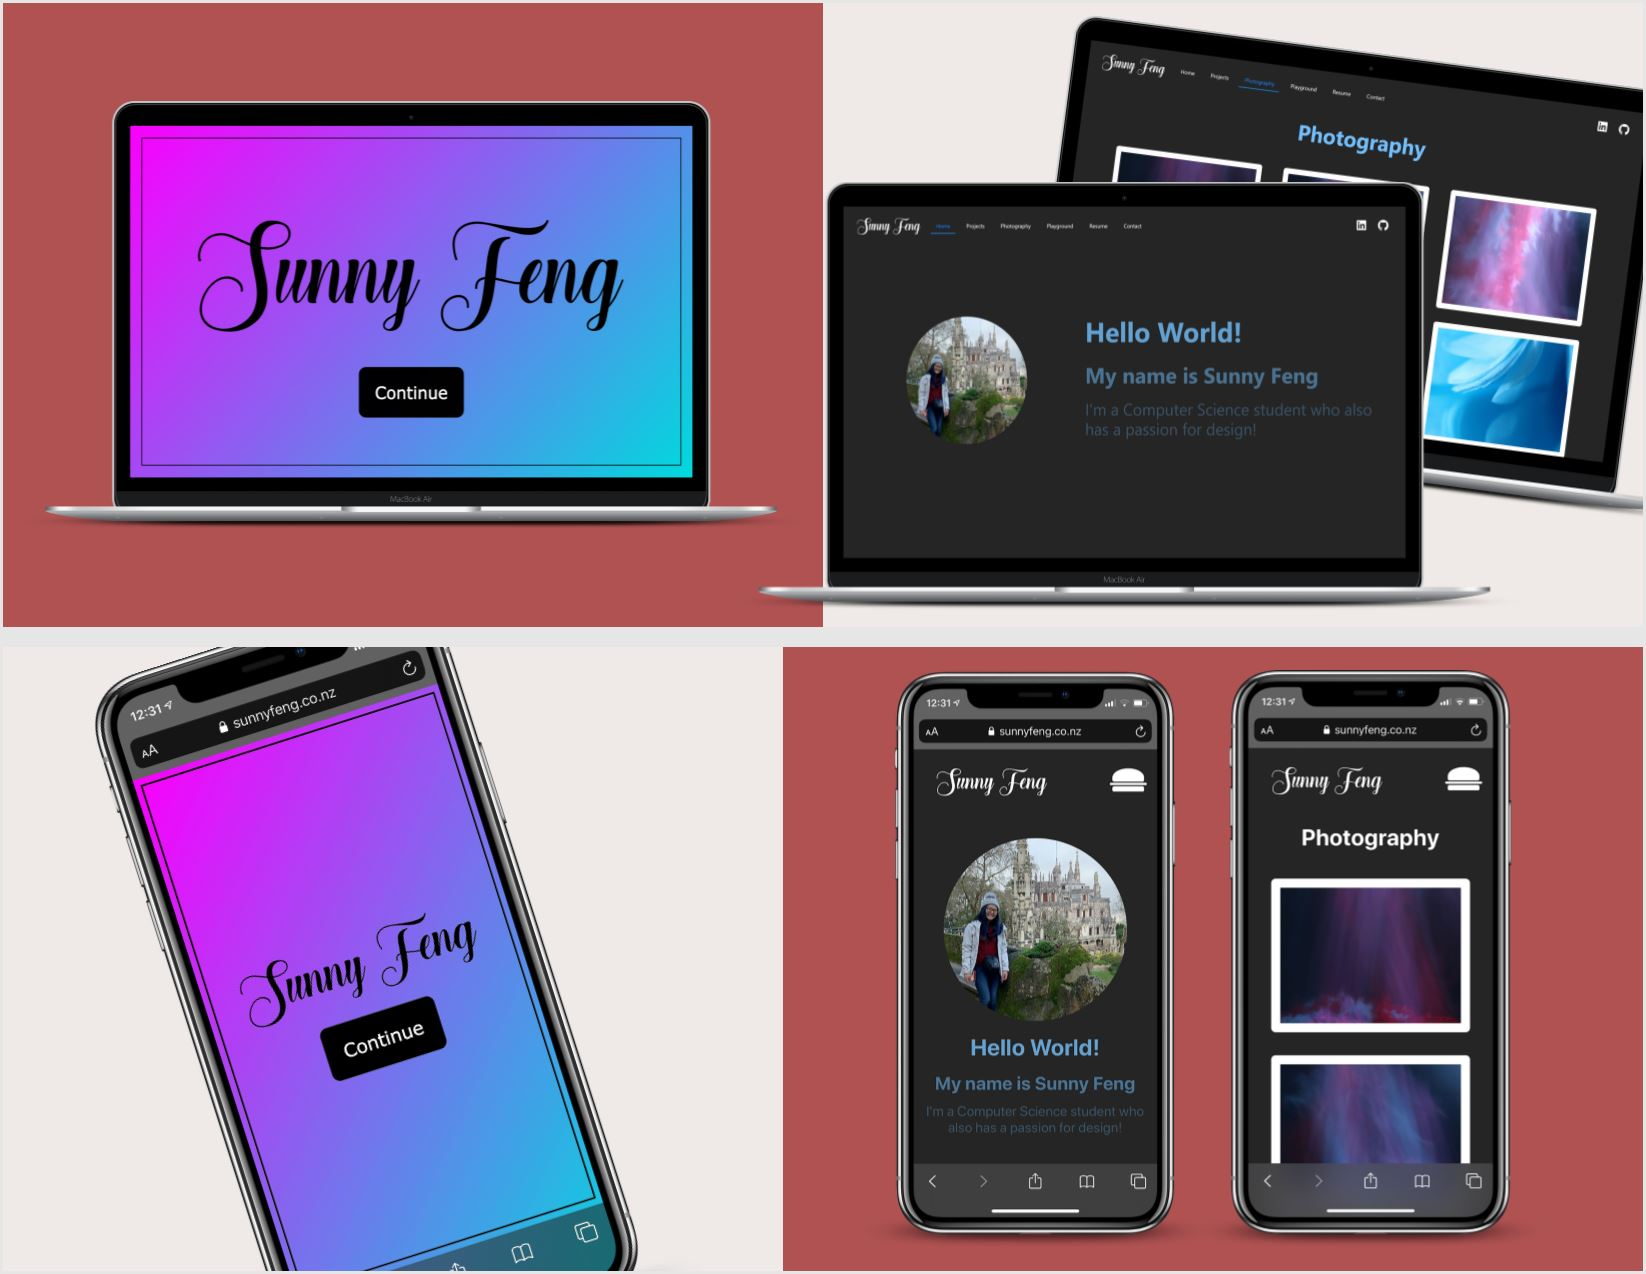
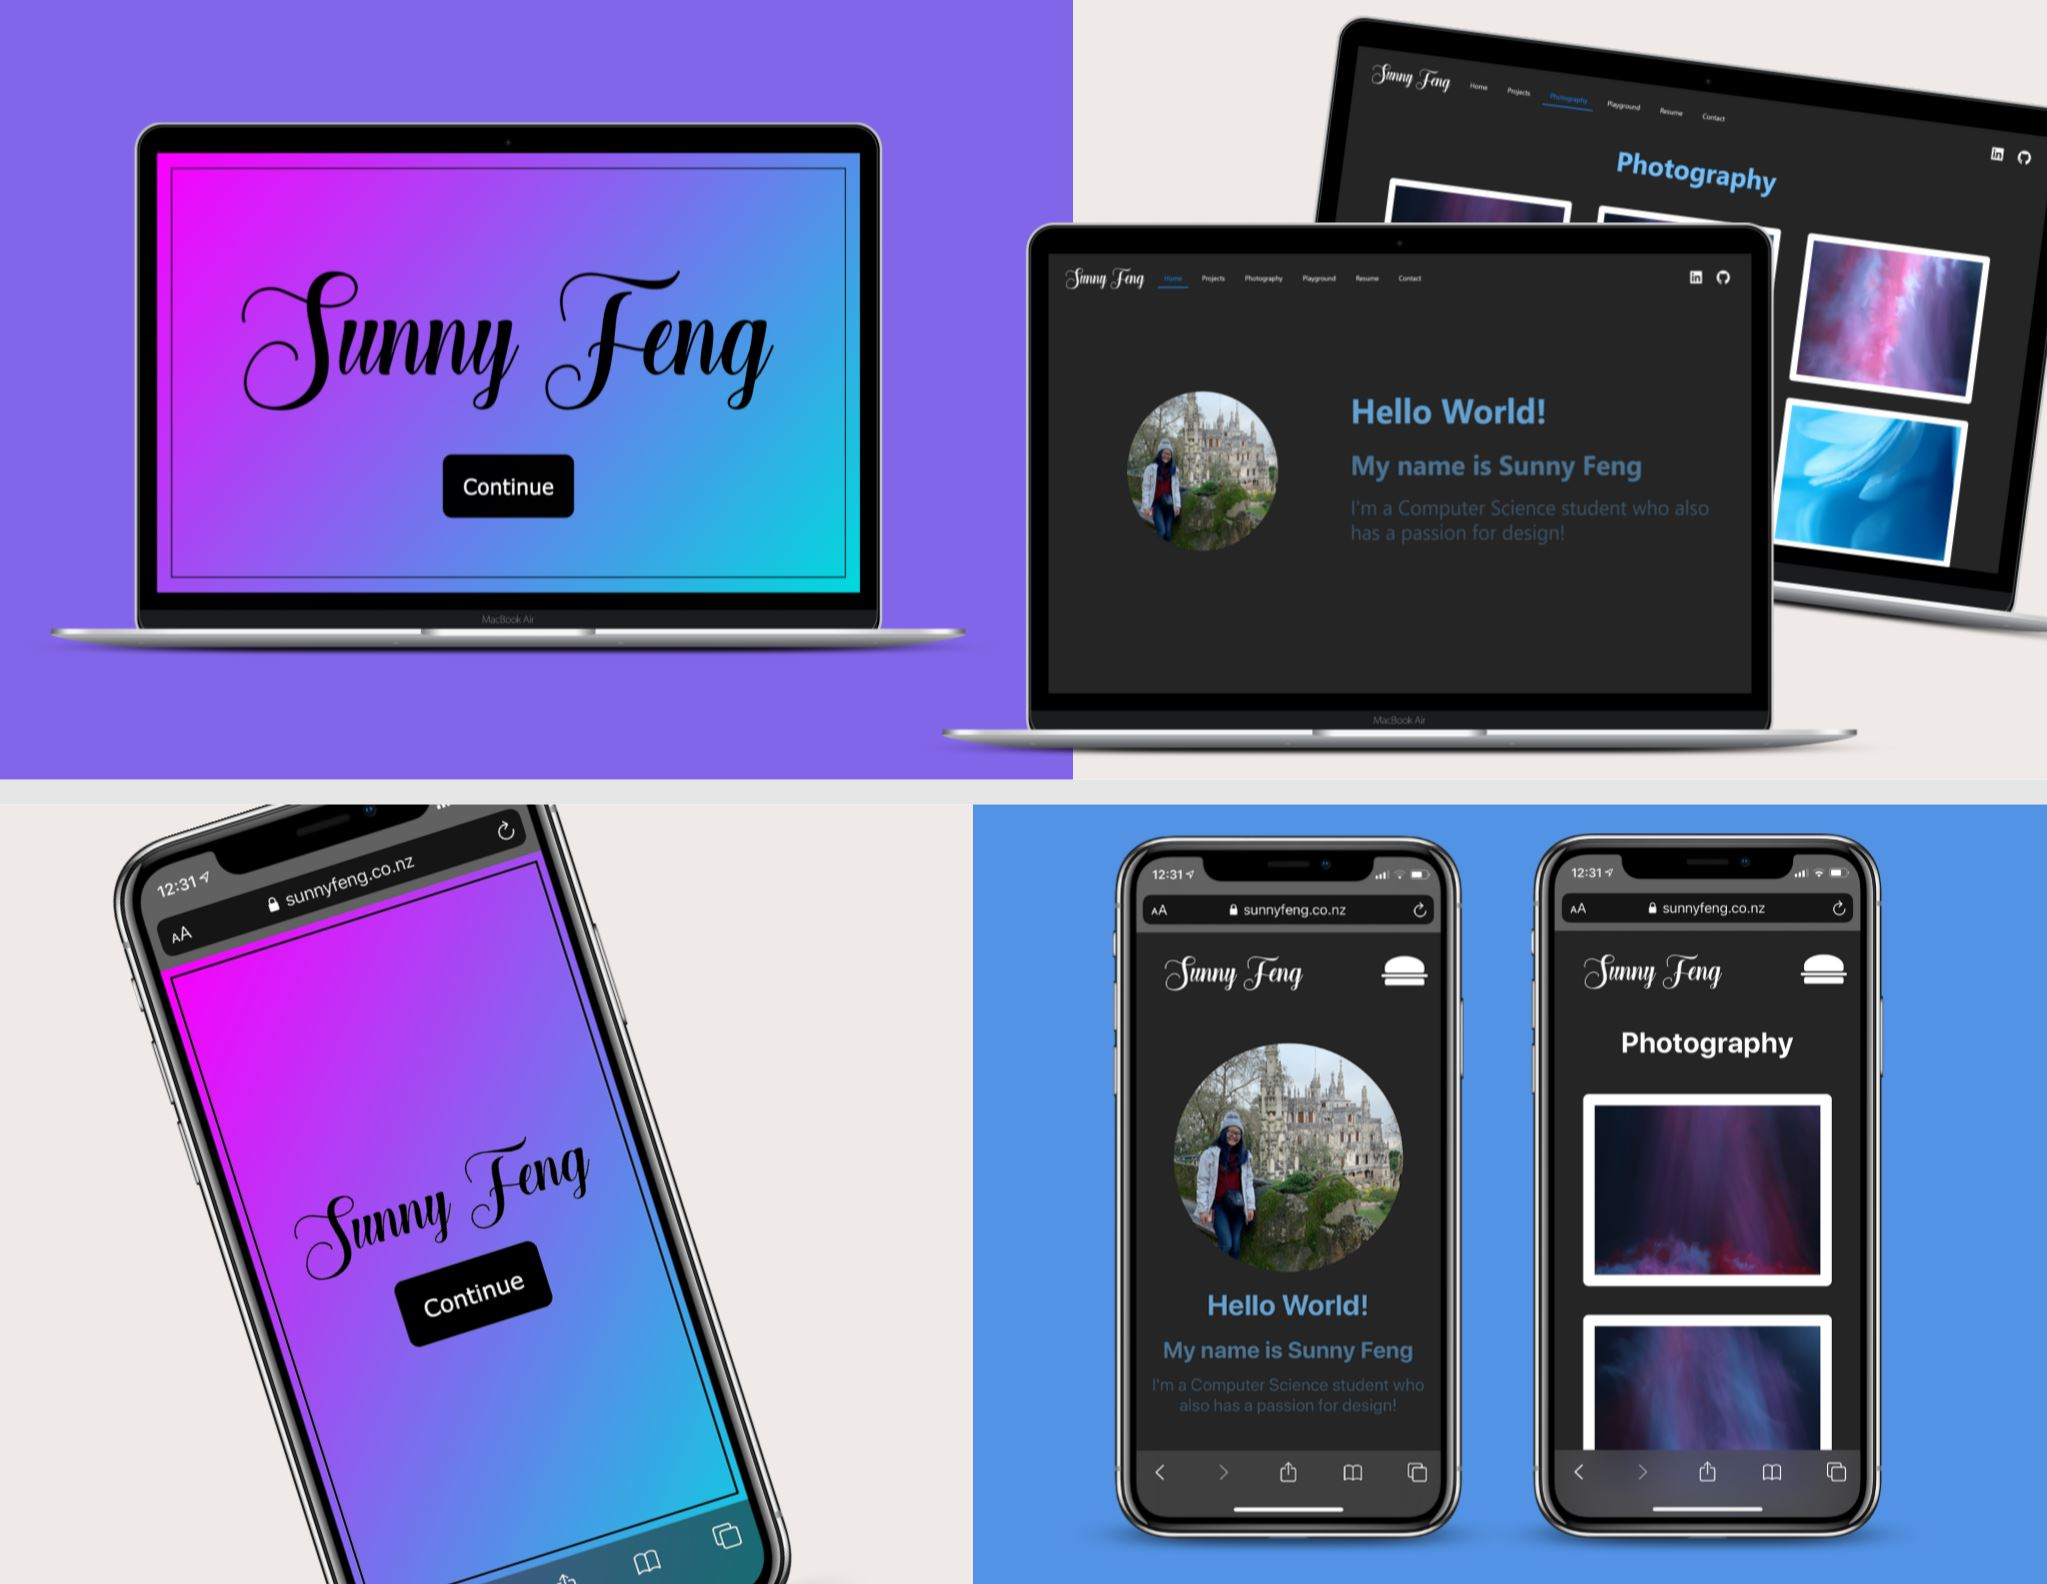
Added mockups for most project pages

diff --git a/src/components/ProjectData.js b/src/components/ProjectData.js
@@ -16,7 +16,7 @@ const ProjectData = [
     githubLink: 'https://github.com/sunnyfeng17/sunnyfeng17.github.io', // Make public before deploying
     website: true,
     websiteLink: 'https://www.sunnyfeng.co.nz',
-    mockup: require('../images/mockups/personal-website.jpg'),
+    mockup: require('../images/mockups/personal-website.jpg')
   },
   { 
     projectId: 'tetris-card', 
@@ -53,7 +53,8 @@ const ProjectData = [
     github: true,
     githubLink: 'https://github.com/rtan265/learnFromAKiwi',
     website: true,
-    websiteLink: 'https://www.learnfroma.kiwi'
+    websiteLink: 'https://www.learnfroma.kiwi',
+    mockup: require('../images/mockups/learnfromakiwi.jpg')
   },
   { 
     projectId: 'money-busters-card', 
@@ -71,7 +72,9 @@ const ProjectData = [
     github: true,
     githubLink: 'https://github.com/sunnyfeng17/MoneyBusters',
     website: false,
-    websiteLink: ''
+    websiteLink: '',
+    mockup: require('../images/mockups/money-busters.jpg')
+
   },
   { 
     projectId: 'scammr-card', 
@@ -107,7 +110,8 @@ const ProjectData = [
     github: false,
     githubLink: '',
     website: false,
-    websiteLink: ''
+    websiteLink: '',
+    mockup: require('../images/mockups/task-manager.jpg')
   },
   { 
     projectId: 'eventigate-card', 
@@ -126,7 +130,8 @@ const ProjectData = [
     github: true,
     githubLink: 'https://github.com/KimberleyEvans-Parker/Eventigate',
     website: false,
-    websiteLink: ''
+    websiteLink: '',
+    mockup: require('../images/mockups/eventigate.jpg'),
   },
   { 
     projectId: 'moving-shapes-card', 
